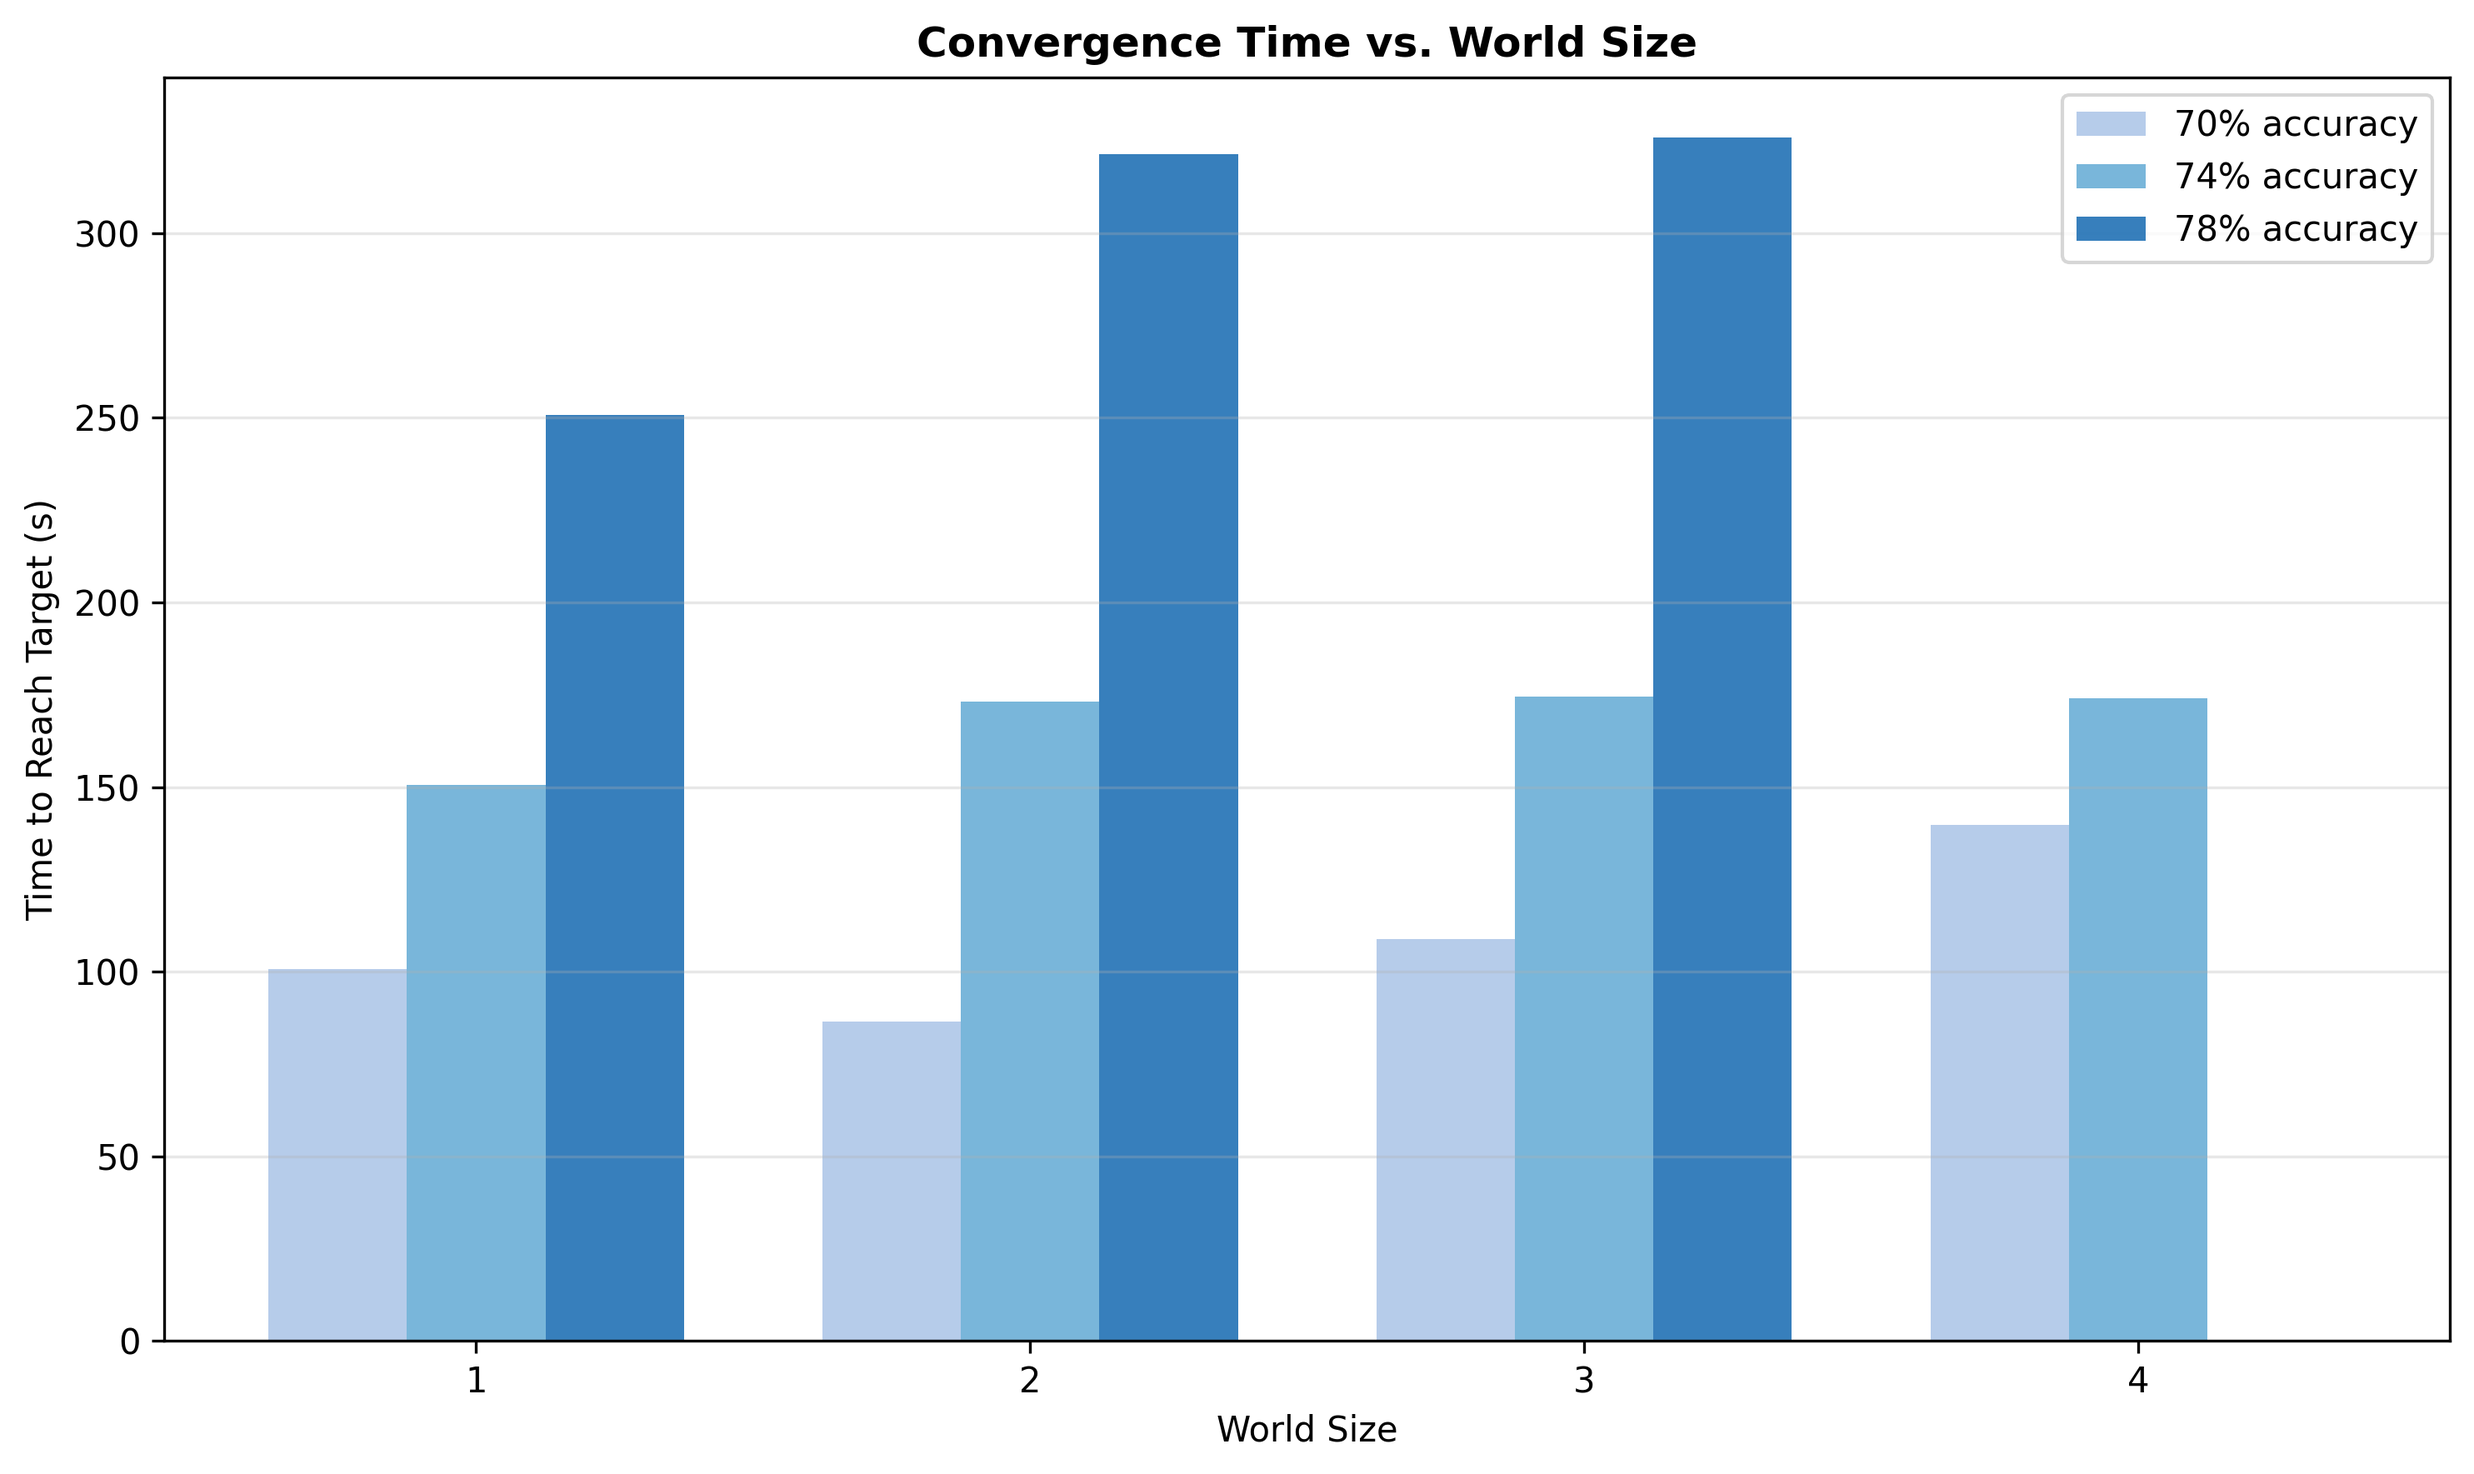
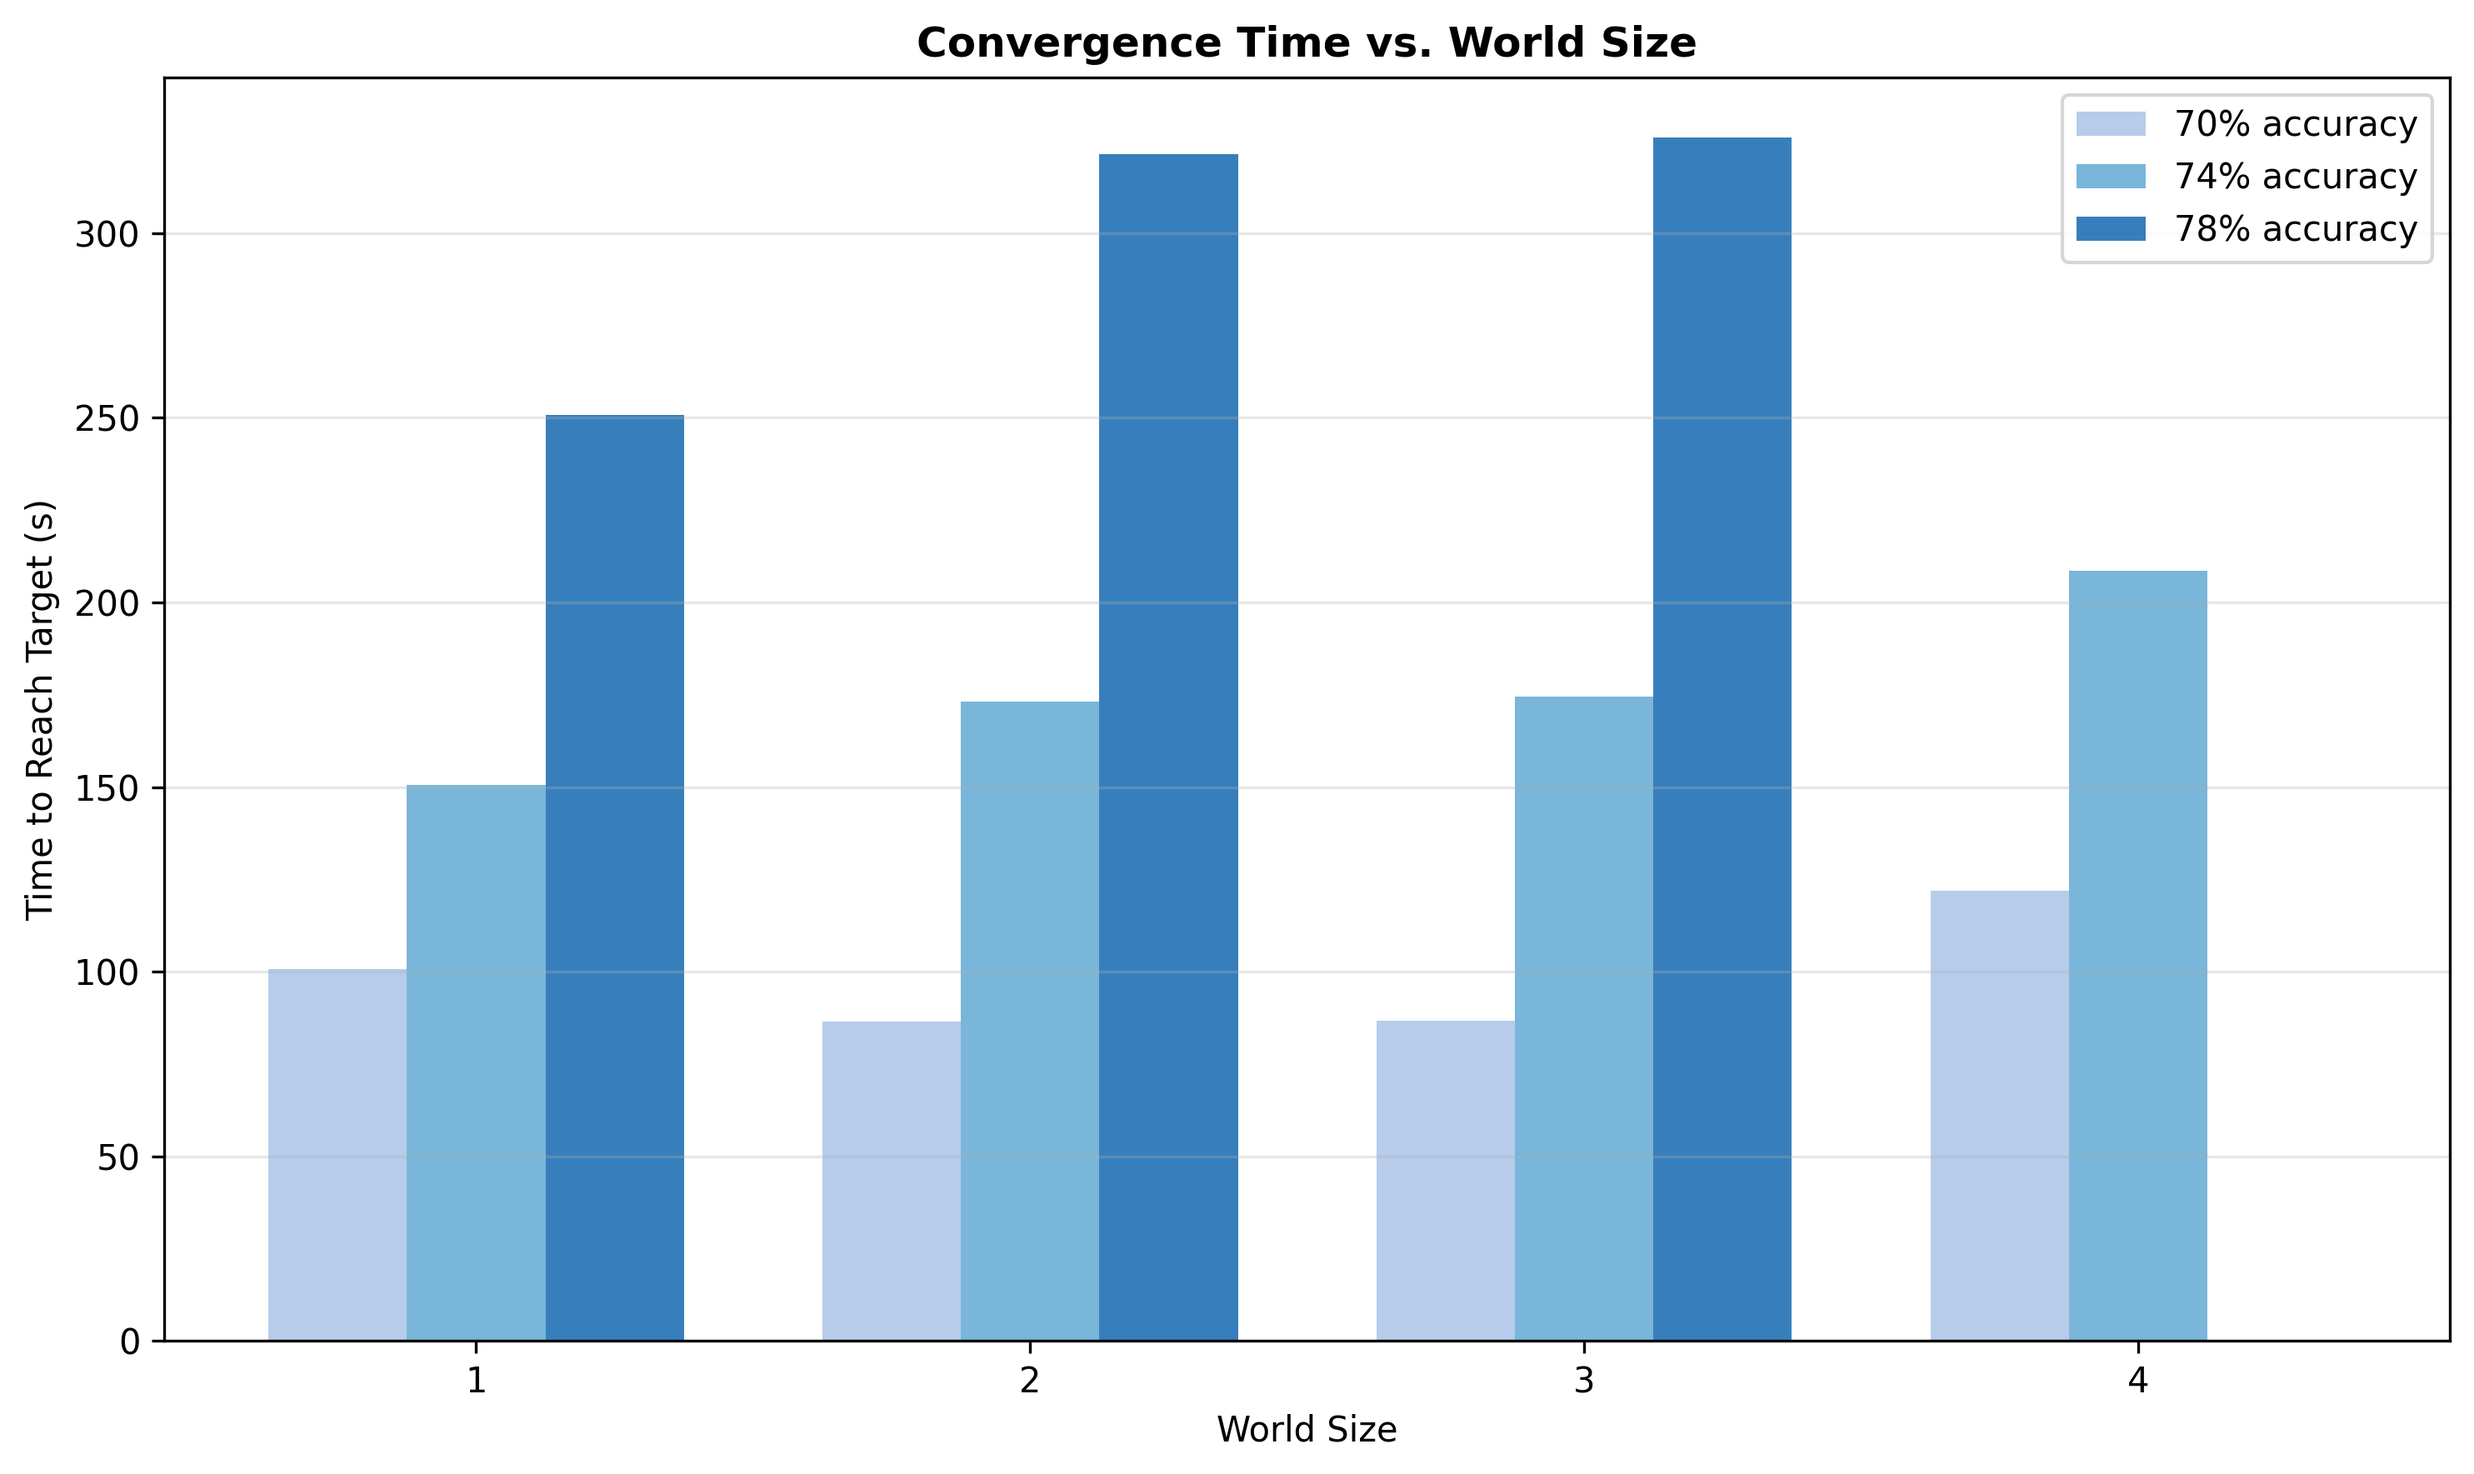
update analyze.py and generate new pictures for result analysis

Changed region(s): [[0.8366, 0.3731, 0.8986, 0.4975], [0.5578, 0.6218, 0.6197, 0.7151], [0.7747, 0.5596, 0.8366, 0.6218]]

diff --git a/experiments/analyze.py b/experiments/analyze.py
@@ -43,6 +43,61 @@ def find_result_file(base_dir: str, world_size: int) -> Optional[str]:
     return None
 
 
+def find_all_node_files(base_dir: str, world_size: int) -> List[str]:
+    """Find all node result files for given world size."""
+    base_path = Path(base_dir)
+
+    patterns = [
+        f'speedup_ws{world_size}/node*.json',
+        f'*_ws{world_size}/node*.json',
+    ]
+
+    for pattern in patterns:
+        matches = list(base_path.glob(pattern))
+        if matches:
+            return [str(m) for m in sorted(matches)]
+
+    # Fallback: search subdirectories
+    for subdir in base_path.iterdir():
+        if not subdir.is_dir():
+            continue
+        node_files = list(subdir.glob('node*.json'))
+        if node_files:
+            try:
+                data = load_result(str(node_files[0]))
+                if data.get('world_size') == world_size:
+                    return [str(f) for f in sorted(node_files)]
+            except:
+                continue
+
+    return []
+
+
+def load_averaged_metrics(base_dir: str, world_size: int) -> Optional[Dict]:
+    """Load metrics from all nodes and return averaged accuracies."""
+    node_files = find_all_node_files(base_dir, world_size)
+
+    if not node_files:
+        return None
+
+    # Load first node to get structure
+    base_data = load_result(node_files[0])
+
+    # Collect accuracies from all nodes
+    all_accuracies = []
+    for filepath in node_files:
+        data = load_result(filepath)
+        all_accuracies.append(data['metrics']['accuracies'])
+
+    # Average accuracies across all nodes
+    avg_accuracies = np.mean(all_accuracies, axis=0).tolist()
+
+    # Update base_data with averaged accuracies
+    base_data['metrics']['accuracies'] = avg_accuracies
+
+    return base_data
+
+
 def analyze_speedup(results_dir: str, world_sizes: List[int]):
     """Analyze speedup and efficiency."""
     print("Analyzing speedup...")
@@ -70,19 +125,19 @@ def analyze_speedup(results_dir: str, world_sizes: List[int]):
 
 
 def analyze_convergence(results_dir: str, world_sizes: List[int], targets: List[float]):
-    """Analyze time to reach target accuracies."""
+    """Analyze time to reach target accuracies (using averaged accuracies across all nodes)."""
     print("\nAnalyzing convergence...")
 
     results = {t: [] for t in targets}
 
     for ws in world_sizes:
-        filepath = find_result_file(results_dir, ws)
-        if not filepath:
+        # Use averaged metrics from all nodes
+        data = load_averaged_metrics(results_dir, ws)
+        if not data:
             for t in targets:
                 results[t].append(None)
             continue
 
-        data = load_result(filepath)
         accuracies = data['metrics']['accuracies']
         epoch_times = data['metrics']['epoch_times']
 
@@ -178,20 +233,24 @@ def plot_training_curves(results_dir: str, world_sizes: List[int], output: str):
     blue_colors = ['#c6dbef', '#6baed6', '#2171b5', '#08519c']
 
     for i, ws in enumerate(world_sizes):
+        # Use node0 for losses (same across all nodes)
         filepath = find_result_file(results_dir, ws)
         if not filepath:
             continue
 
-        data = load_result(filepath)
-        epochs = range(1, len(data['metrics']['losses']) + 1)
+        data_node0 = load_result(filepath)
+        epochs = range(1, len(data_node0['metrics']['losses']) + 1)
 
         color = blue_colors[i] if i < len(blue_colors) else '#08519c'
 
-        ax1.plot(epochs, data['metrics']['losses'],
+        # Plot loss from node0 (losses are the same across nodes)
+        ax1.plot(epochs, data_node0['metrics']['losses'],
                 label=f'WS {ws}', linewidth=2, color=color)
 
-        if any(data['metrics']['accuracies']):
-            ax2.plot(epochs, [a * 100 for a in data['metrics']['accuracies']],
+        # Use averaged accuracies across all nodes
+        data_avg = load_averaged_metrics(results_dir, ws)
+        if data_avg and any(data_avg['metrics']['accuracies']):
+            ax2.plot(epochs, [a * 100 for a in data_avg['metrics']['accuracies']],
                     label=f'WS {ws}', linewidth=2, color=color)
 
     ax1.set_xlabel('Epoch')

diff --git a/report.md b/report.md
@@ -2,9 +2,10 @@
 
 ## Experimental Setup
 
-- **Model**: 4-layer fully-connected network (3072 → 512 → 256 → 128 → 10)
-  - Parameters: 1.74M (~6.63MB)
-  - Activation: GELU with Dropout (0.2)
+- **Model**: Convolutional Neural Network (CNN)
+  - Architecture: Conv(32) → Conv(64) → Conv(128) → FC(256) → FC(10)
+  - Parameters: ~0.68M (~2.73MB)
+  - Activation: GELU with Dropout (0.2), BatchNorm between conv layers
 - **Dataset**: CIFAR-10 (50K training samples, 10K test samples)
 - **Training Configuration**: 15 epochs, batch size 128, Adam optimizer (lr=0.001)
 - **Distributed System**:
@@ -12,16 +13,34 @@
   - Data partitioning: DistributedSampler (interleaved assignment)
   - Gradient bucketing: 5MB buckets
 
-## Results: Fully-Connected Model
+## Results
 
 ### Performance Metrics
-#### Fully Connected Network
+#### CNN - Strong Scaling
 | World Size | Total Time (s) | Speedup | Efficiency | Comm Overhead | Final Accuracy |
 |------------|---------------|---------|------------|---------------|----------------|
-| 1          | 322.5         | 1.00×   | 100%       | 2.1%*         | 54.6%          |
-| 2          | 233.3         | 1.38×   | 69.2%      | 24.6%         | 53.5%          |
-| 3          | 166.0         | 1.94×   | 64.8%      | 30.4%         | 52.3%          |
-| 4          | 141.0         | 2.29×   | 57.2%      | 34.8%         | 51.7%          |
+| 1          | 829.75        | 1.00×   | 100.0%     | 0.30%         | 78.71%         |
+| 2          | 462.43        | 1.79×   | 89.7%      | 12.49%        | 78.50%         |
+| 3          | 339.00        | 2.45×   | 81.6%      | 21.19%        | 78.73%         |
+| 4          | 290.68        | 2.85×   | 71.4%      | 26.79%        | 78.52%         |
+
+### Convergence Time
+
+#### Time to Reach Target Accuracy
+| World Size | 70% Acc (s) | 75% Acc (s) | 78% Acc (s) |
+|------------|-------------|-------------|-------------|
+| 1          | 109.1       | 164.6       | 386.6       |
+| 2          | 92.4        | 185.5       | 308.4       |
+| 3          | 90.8        | 135.0       | 272.0       |
+| 4          | 96.7        | 154.6       | 271.5       |
+
+#### Speedup vs WS1
+| World Size | 70% Speedup | 75% Speedup | 78% Speedup |
+|------------|-------------|-------------|-------------|
+| 1          | 1.00×       | 1.00×       | 1.00×       |
+| 2          | 1.18×       | 0.89×       | 1.25×       |
+| 3          | 1.20×       | 1.22×       | 1.42×       |
+| 4          | 1.13×       | 1.06×       | 1.42×       |
 
 ### Key Observations
 
@@ -36,11 +55,19 @@
 - Model size (6.63MB) results in moderate communication-to-computation ratio
 
 **3. Convergence Behavior**
-- Accuracy decreases slightly with more nodes: 54.6% → 51.7% (2.9% drop)
-- Loss progression is slower for larger world sizes
-- Root cause: Larger effective batch size (WS1: 128, WS4: 512)
+- Loss progression is slower for larger world sizes in both scaling modes
+- **Strong Scaling**: WS4 has slower loss decrease due to gradient noise
+  - Each node processes only 32 samples (128 ÷ 4), leading to higher gradient variance
+  - Despite gradient averaging across nodes, individual gradients are lower quality
+  - Results in less stable parameter updates and reduced learning efficiency
+  - **Loss vs Accuracy paradox**: WS4 final loss (~0.48) >> WS1 final loss (~0.14), but accuracy is similar (78.5% vs 78.7%)
+    - Higher loss indicates lower prediction confidence (flatter probability distributions)
+    - Accuracy only measures if argmax is correct, not confidence level
+    - For probability-critical applications, WS1's lower loss is preferred
+- **Weak Scaling**: WS4 has slower loss decrease due to reduced update frequency
+  - Larger effective batch size (WS1: 128, WS4: 512)
   - Fewer parameter updates per epoch (WS1: 391, WS4: 98)
-  - Known characteristic of large-batch training
+  - Classic large-batch training characteristic: better gradient quality but 4× fewer updates
 
 **4. Time Breakdown (WS 4)**
 - Computation: 6.15s/epoch (65.2%)
